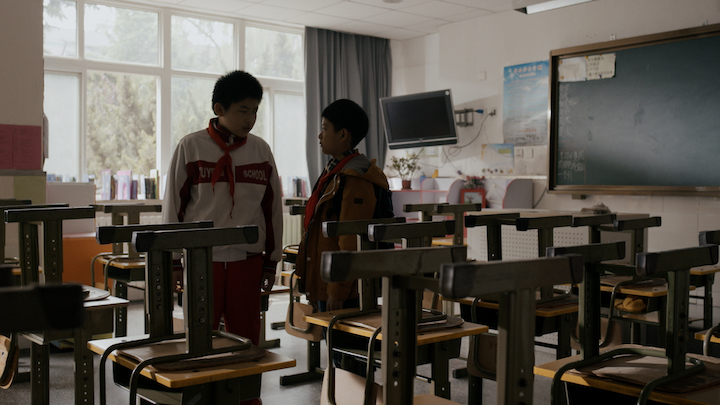
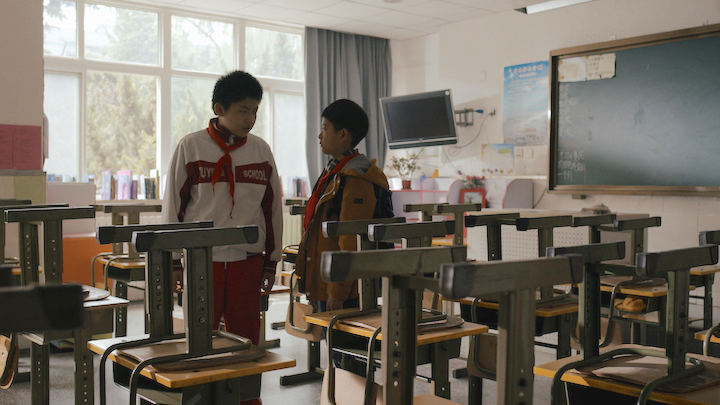
adjust images

diff --git a/_posts/2022-04-28-features.md b/_posts/2022-04-28-features.md
@@ -13,7 +13,7 @@ categories: posts
 
 <hr/>
 <br>
-![](/works/images/bfengzdy.jpg)
+![](/works/images/fengzdy.jpg)
 
 ## The Shadow Play (2019)
 
